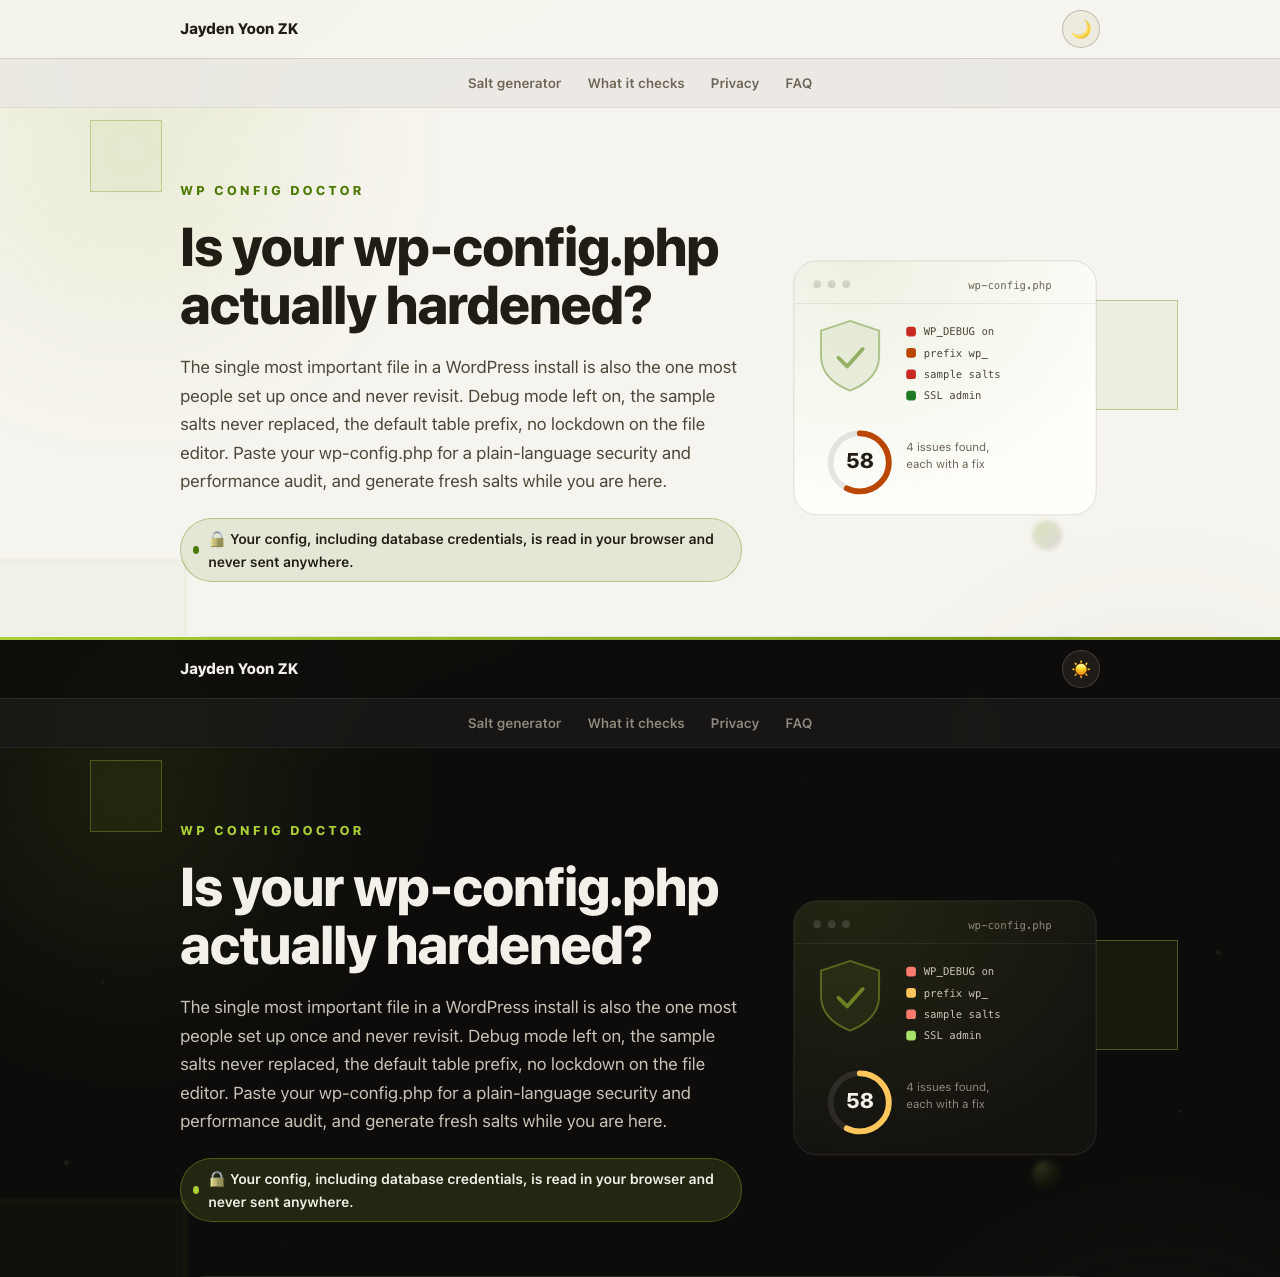
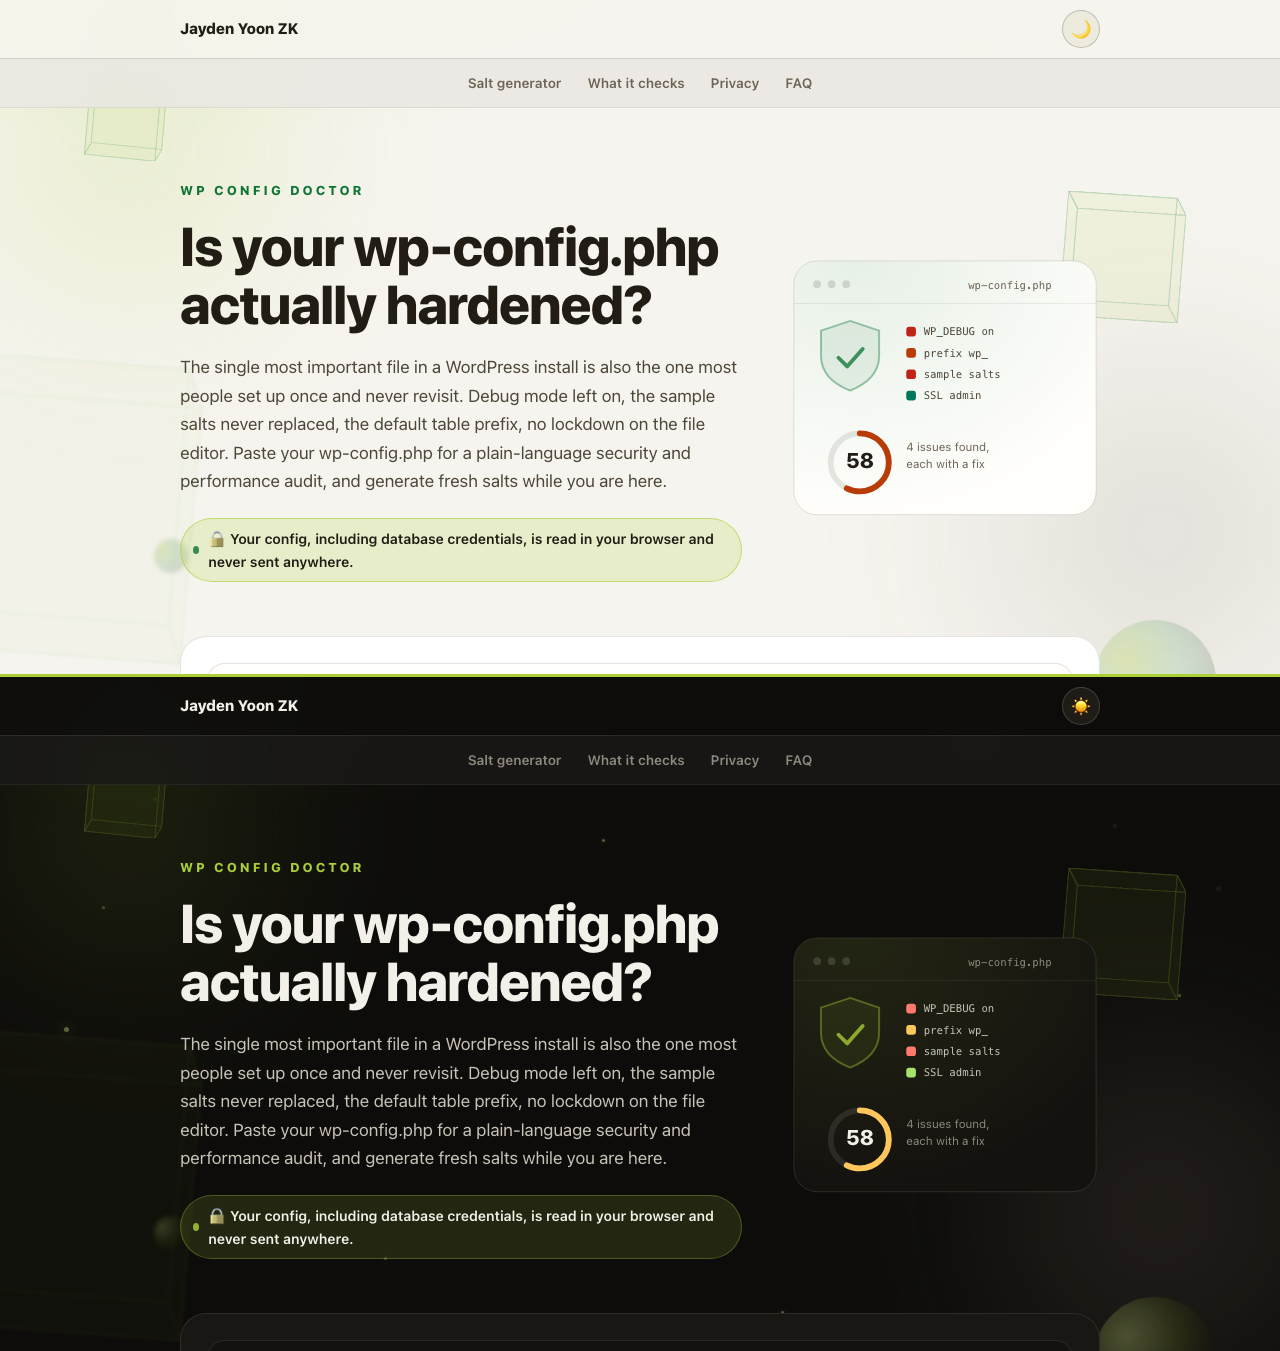
Refresh light mode with a fresh AA palette (v1.3.2)
Light mode moves from darkened earth tones to fresh hues: vivid green accent, emerald success, clear orange, brighter red, with chip washes tinted from bright brand colors. All rendered text pairs re-measured at 4.5:1 or better; dark mode untouched. README preview regenerated for both themes.

diff --git a/docs/styles.css b/docs/styles.css
@@ -542,23 +542,23 @@ html[data-theme="light"] {
   --ink: #211c14;
   --ink-soft: #4f4739;
   --ink-mute: #6e6556;
-  --accent: #4c7a00;
-  --accent-soft: rgba(76, 122, 0, 0.1);
-  --green: #1d7a25; --green-soft: rgba(29, 122, 37, 0.1);
-  --amber: #ba4700; --amber-soft: rgba(186, 71, 0, 0.1);
-  --red: #c62a22; --red-soft: rgba(198, 42, 34, 0.1);
-  --blue: #2465b8; --blue-soft: rgba(36, 101, 184, 0.1);
+  --accent: #0e7534;
+  --accent-soft: rgba(171, 207, 55, 0.2);
+  --green: #03765a; --green-soft: rgba(52, 199, 89, 0.14);
+  --amber: #b83c08; --amber-soft: rgba(255, 159, 10, 0.14);
+  --red: #c02418; --red-soft: rgba(255, 69, 58, 0.1);
+  --blue: #1d63c4; --blue-soft: rgba(10, 132, 255, 0.11);
   --nav-bg: rgba(246, 244, 238, 0.85);
   --subnav-bg: rgba(84, 71, 65, 0.06);
 }
 html[data-theme="light"] body {
-  background-image: radial-gradient(1100px 500px at 15% -5%, rgba(139, 176, 24, 0.14), transparent 60%);
+  background-image: radial-gradient(1100px 500px at 15% -5%, rgba(171, 207, 55, 0.2), transparent 60%);
 }
 html[data-theme="light"] .to-top { background: var(--accent); border-color: var(--accent); color: #ffffff; }
-html[data-theme="light"] .to-top:hover { background: #426a00; border-color: #426a00; }
+html[data-theme="light"] .to-top:hover { background: #0b5f2a; border-color: #0b5f2a; }
 html[data-theme="light"] button.primary { background: var(--accent); border-color: var(--accent); color: #ffffff; }
-html[data-theme="light"] button.primary:hover { background: #426a00; box-shadow: 0 6px 22px rgba(76, 122, 0, 0.35); }
-html[data-theme="light"] .privacy { border-color: rgba(111, 141, 19, 0.4); }
+html[data-theme="light"] button.primary:hover { background: #0b5f2a; box-shadow: 0 6px 22px rgba(14, 117, 52, 0.35); }
+html[data-theme="light"] .privacy { border-color: rgba(171, 207, 55, 0.6); }
 
 /* Background scene: depth-of-field drift with scroll parallax */
 .bg-scene {
@@ -672,11 +672,11 @@ html[data-theme="light"] .star { opacity: 0 !important; animation: none; }
 .p10 { right: 5%; top: 92%; width: 122px; height: 122px; --sfac: 0.24; --depth: 26; --dxt: 22s; --dyt: 29s; --dxa: -28px; --dya: -38px; opacity: 0.5; }
 .p11 { right: 17%; top: 52%; width: 30px; height: 30px; --sfac: 0.06; --depth: 7; --dxt: 31s; --dyt: 39s; --dxa: 16px; --dya: 20px; filter: blur(2px); opacity: 0.4; }
 
-html[data-theme="light"] .bg-scene { --face-bg: rgba(111, 141, 19, 0.04); --face-line: rgba(111, 141, 19, 0.3); }
-html[data-theme="light"] .orb-a { background: radial-gradient(circle, rgba(139, 176, 24, 0.16), transparent 65%); }
+html[data-theme="light"] .bg-scene { --face-bg: rgba(171, 207, 55, 0.06); --face-line: rgba(20, 130, 60, 0.3); }
+html[data-theme="light"] .orb-a { background: radial-gradient(circle, rgba(171, 207, 55, 0.2), transparent 65%); }
 html[data-theme="light"] .orb-b { background: radial-gradient(circle, rgba(84, 71, 65, 0.14), transparent 65%); }
 html[data-theme="light"] .sph .inner {
-  background: radial-gradient(circle at 31% 28%, rgba(139, 176, 24, 0.5), rgba(111, 141, 19, 0.28) 42%, rgba(60, 76, 12, 0.24) 78%, transparent 100%);
+  background: radial-gradient(circle at 31% 28%, rgba(171, 207, 55, 0.55), rgba(52, 168, 83, 0.3) 42%, rgba(11, 95, 42, 0.22) 78%, transparent 100%);
   box-shadow: inset -14px -12px 28px rgba(60, 60, 40, 0.18);
 }
 

diff --git a/docs/index.html b/docs/index.html
@@ -22,7 +22,7 @@
       document.documentElement.dataset.theme = t;
     })();
   </script>
-  <link rel="stylesheet" href="styles.css?v=20260709o">
+  <link rel="stylesheet" href="styles.css?v=20260710a">
   <script type="application/ld+json">
   {
     "@context": "https://schema.org",
@@ -196,6 +196,6 @@
 </footer>
 
 <button id="to-top" class="to-top" type="button" aria-label="Back to top">&#8593;</button>
-<script type="module" src="app.js?v=20260709p"></script>
+<script type="module" src="app.js?v=20260710a"></script>
 </body>
 </html>

diff --git a/docs/app.js b/docs/app.js
@@ -1,4 +1,4 @@
-import { audit, generateSalts } from "./config.js?v=20260709p";
+import { audit, generateSalts } from "./config.js?v=20260710a";
 
 const $ = (id) => document.getElementById(id);
 const esc = (s) => String(s).replace(/&/g, "&amp;").replace(/</g, "&lt;").replace(/>/g, "&gt;").replace(/"/g, "&quot;").replace(/'/g, "&#39;");

diff --git a/CHANGELOG.md b/CHANGELOG.md
@@ -3,6 +3,13 @@
 All notable changes to this project are documented here.
 The format is based on [Keep a Changelog](https://keepachangelog.com/en/1.1.0/).
 
+## [1.3.2] - 2026-07-10
+
+### Changed
+
+- Light mode's palette is rebuilt around fresh hues instead of darkened earth tones. The accent is now a vivid deep green, success is emerald, the warning orange is clear instead of brown, and the red is brighter. Chip and pill washes are tinted from bright brand colors rather than from the dark text colors, so they read as lively pastels instead of a gray film, and the light-mode decorative constants (page glow, cube wireframes, spheres) moved from olive to brand chartreuse. Every rendered text pair was re-measured at 4.5:1 or better on the live page; dark mode is untouched.
+- The README preview is regenerated to show the new light palette beside dark mode.
+
 ## [1.3.1] - 2026-07-10
 
 ### Added
@@ -117,6 +124,7 @@ First stable release.
 - Dependency-free ES module engine (docs/config.js) with 10 Node tests.
 - Browser UI in the shared suite design with light and dark themes and a ?demo deep link.
 
+[1.3.2]: https://github.com/JaydenYoonZK/wp-config-doctor/releases/tag/v1.3.2
 [1.3.1]: https://github.com/JaydenYoonZK/wp-config-doctor/releases/tag/v1.3.1
 [1.2.6]: https://github.com/JaydenYoonZK/wp-config-doctor/releases/tag/v1.2.6
 [1.2.5]: https://github.com/JaydenYoonZK/wp-config-doctor/releases/tag/v1.2.5
